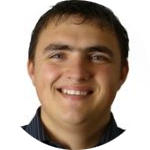
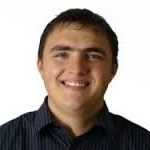
# All requests moved to one Ajax request

diff --git a/src/Indigo/UIBundle/Resources/public/css/main.css b/src/Indigo/UIBundle/Resources/public/css/main.css
@@ -119,8 +119,10 @@ body{
     width: 100%;
     height: auto;
     border-radius: 50%;
-
     background: url("../images/empty-thumbnail.png") no-repeat center;
+    border: solid white 4px;
+
+    box-shadow: 0 0 5px #000000;
 }
 
 .field .bg {
@@ -154,10 +156,16 @@ body{
     }
 }
 
-@media screen  and (min-width: 801px){
+@media screen  and (min-width: 1200px){
     .field .bg{
         max-width: 1000px;
         margin: 0 auto;
+    }
+
+    .field .player
+    {
+        width: 100px;
+        height: 100px;
     }
 }
 

diff --git a/src/Indigo/UIBundle/Controller/LiveController.php b/src/Indigo/UIBundle/Controller/LiveController.php
@@ -2,8 +2,10 @@
 
 namespace Indigo\UIBundle\Controller;
 
+use Indigo\UIBundle\Models\ScoreModel;
 use Sensio\Bundle\FrameworkExtraBundle\Configuration\Template;
 use Symfony\Bundle\FrameworkBundle\Controller\Controller;
+use Symfony\Component\HttpFoundation\JsonResponse;
 use Symfony\Component\HttpFoundation\Response;
 
 class LiveController extends Controller
@@ -78,46 +80,19 @@ class LiveController extends Controller
 
     public function statusAction()
     {
-        // Service required
-        return new Response("Stalas užimtas");
+        // Service required !!!
+
+        $json = '{
+            "status" : "Stalas laisvas",
+            "score" : {"teamA" : 6, "teamB" : 7} ,
+            "players" : [
+                {"name" : "Dalia", "imageUrl" : "/bundles/indigoui/images/dalia.png"},
+                {"name" : "Tadas", "imageUrl" : "/bundles/indigoui/images/tadas_surgailis.png"},
+                {"name" : "Billas", "imageUrl" : "/bundles/indigoui/images/bilas.png"},
+                {"name" : "Clintonas", "imageUrl" : "/bundles/indigoui/images/clinton.png"}
+                ]
+            }';
+
+        return new JsonResponse($json);
     }
-
-    public function scoreAction()
-    {
-        // Service required
-        $score = '{ "teamA" : 6, "teamB" : 9 }';
-        return new Response($score);
-    }
-
-    public function player1Action()
-    {
-        // Service required
-        $info = '{ "name" : "Jonas", "imageUrl" : "/bundles/indigoui/images/tadas_surgailis.png" }';
-        return new Response($info);
-    }
-
-    public function player2Action()
-    {
-        // Service required
-        $info = '{ "name" : "Petras", "imageUrl" : "/bundles/indigoui/images/tadas_surgailis.png" }';
-        return new Response($info);
-    }
-
-    public function player3Action()
-    {
-        // Service required
-        $info = '{ "name" : "Jonas", "imageUrl" : "/bundles/indigoui/images/tadas_surgailis.png" }';
-        return new Response($info);
-    }
-
-    public function player4Action()
-    {
-        // Service required
-        $info = '{ "name" : "Jonas", "imageUrl" : "/bundles/indigoui/images/tadas_surgailis.png" }';
-        return new Response($info);
-    }
-
-
-
-
 }

diff --git a/src/Indigo/UIBundle/Models/ScoreModel.php b/src/Indigo/UIBundle/Models/ScoreModel.php
@@ -1,0 +1,48 @@
+<?php
+/**
+ * Created by PhpStorm.
+ * User: TSU
+ * Date: 2015.04.17
+ * Time: 00:51
+ */
+
+namespace Indigo\UIBundle\Models;
+
+
+class ScoreModel {
+    private $teamA;
+    private $teamB;
+
+    /**
+     * @return mixed
+     */
+    public function getTeamA()
+    {
+        return $this->teamA;
+    }
+
+    /**
+     * @param mixed $teamA
+     */
+    public function setTeamA($teamA)
+    {
+        $this->teamA = $teamA;
+    }
+
+    /**
+     * @return mixed
+     */
+    public function getTeamB()
+    {
+        return $this->teamB;
+    }
+
+    /**
+     * @param mixed $teamB
+     */
+    public function setTeamB($teamB)
+    {
+        $this->teamB = $teamB;
+    }
+
+}
